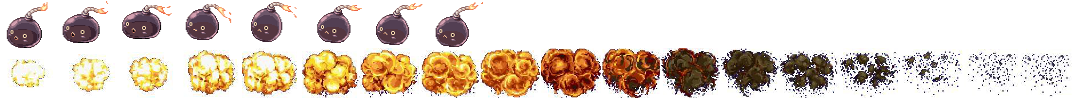
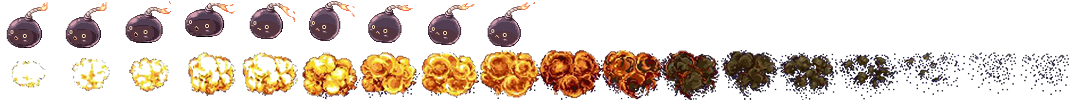
Add hud and clean sprites

diff --git a/Kaboom/Sources/MainGame.cs b/Kaboom/Sources/MainGame.cs
@@ -19,6 +19,7 @@ namespace Kaboom.Sources
         private DisplayOrientation oldOrientation_;
         private readonly List<Player> players_;
         private readonly Gameplay gameplay_;
+        private Hud hud_;
 
         /// <summary>
         /// Create the game instance
@@ -52,6 +53,7 @@ namespace Kaboom.Sources
             KaboomResources.Textures["background2"] = Content.Load<Texture2D>("background2");
             KaboomResources.Textures["background3"] = Content.Load<Texture2D>("background3");
             KaboomResources.Textures["BombSheet"] = Content.Load<Texture2D>("BombSheet");
+            KaboomResources.Textures["hud"] = Content.Load<Texture2D>("hud");
             KaboomResources.Fonts["default"] = Content.Load<SpriteFont>("defaultFont");
         }
 
@@ -70,6 +72,9 @@ namespace Kaboom.Sources
             this.widthRef_ = GraphicsDevice.Viewport.Width;
             this.map_ = new Map(this, this.spriteBatch_, this.width_, this.height_);
             this.Components.Add(this.map_);
+            this.hud_ = new Hud(this, this.spriteBatch_);
+            this.Components.Add(this.hud_);
+
             this.oldOrientation_ = this.Window.CurrentOrientation;
 
             if (this.Window.CurrentOrientation == DisplayOrientation.Portrait)
@@ -162,22 +167,29 @@ namespace Kaboom.Sources
                             var where = this.map_.GetCoordByPos(ret.Pos);
                             Camera.Instance.OffX = -1 * (where.X * 80) + GraphicsDevice.Viewport.Width / 2;
                             if (this.Window.CurrentOrientation == DisplayOrientation.Portrait)
-                                Camera.Instance.OffY = -1 * (where.Y * 80) + (int)(0.1 * GraphicsDevice.Viewport.Width) + GraphicsDevice.Viewport.Height / 2;
+                                Camera.Instance.OffY = -1 * (where.Y * 80) + (int) (0.1 * GraphicsDevice.Viewport.Width) +
+                                                       GraphicsDevice.Viewport.Height / 2;
                             else
-                                Camera.Instance.OffY = -1 * (where.Y * 80) + (int)(0.1 * GraphicsDevice.Viewport.Height) + GraphicsDevice.Viewport.Height / 2;
+                                Camera.Instance.OffY = -1 * (where.Y * 80) +
+                                                       (int) (0.1 * GraphicsDevice.Viewport.Height) +
+                                                       GraphicsDevice.Viewport.Height / 2;
 
                         }
                         catch (Exception)
                         {
                             Camera.Instance.OffX = -1 * ((this.width_ * 80) / 2) + GraphicsDevice.Viewport.Width / 2;
                             if (this.Window.CurrentOrientation == DisplayOrientation.Portrait)
-                                Camera.Instance.OffY = -1 * ((this.height_ * 80) /2) + (int)(0.1 * GraphicsDevice.Viewport.Width) + GraphicsDevice.Viewport.Height / 2;
+                                Camera.Instance.OffY = -1 * ((this.height_ * 80) / 2) +
+                                                       (int) (0.1 * GraphicsDevice.Viewport.Width) +
+                                                       GraphicsDevice.Viewport.Height / 2;
                             else
-                                Camera.Instance.OffY = -1 * ((this.height_ * 80) /2) + (int)(0.1 * GraphicsDevice.Viewport.Height) + GraphicsDevice.Viewport.Height / 2;
+                                Camera.Instance.OffY = -1 * ((this.height_ * 80) / 2) +
+                                                       (int) (0.1 * GraphicsDevice.Viewport.Height) +
+                                                       GraphicsDevice.Viewport.Height / 2;
                         }
                         Camera.Instance.DimX = 80;
                         Camera.Instance.DimY = 80;
-                        
+
                         break;
                     case Action.Type.ZoomOut:
                         if (this.Window.CurrentOrientation == DisplayOrientation.Portrait)
@@ -186,9 +198,9 @@ namespace Kaboom.Sources
                             Camera.Instance.DimX = maxZoom_[1];
                             Camera.Instance.OffX = (GraphicsDevice.Viewport.Width - (maxZoom_[1] * this.width_)) / 2;
                             Camera.Instance.OffY = (GraphicsDevice.Viewport.Height -
-                                                    (int)(0.1 * GraphicsDevice.Viewport.Width) -
+                                                    (int) (0.1 * GraphicsDevice.Viewport.Width) -
                                                     (maxZoom_[1] * this.height_)) / 2 +
-                                                   (int)(0.1 * GraphicsDevice.Viewport.Width);
+                                                   (int) (0.1 * GraphicsDevice.Viewport.Width);
                         }
                         else
                         {
@@ -202,53 +214,64 @@ namespace Kaboom.Sources
                         }
                         break;
                     case Action.Type.Tap:
-                      
-                        foreach (var player in this.players_)
+                        var hudEvent = this.hud_.GetHudEvent(ret.Pos);
+                        if (hudEvent != Hud.eHudAction.NoAction)
                         {
-                            if (player.TurnToPlay)
+                            if (hudEvent == Hud.eHudAction.Detonator)
                             {
-                                try
-                                {
-                                    if (player.Name == "Player 1")
-                                    {
-                                        var coord = this.map_.GetCoordByPos(ret.Pos);
-                                        var entity = new Bomb(Pattern.Type.Square, this.map_.GetMaxZIndexOnCoord(coord) + 1,
-                                                                                                 new SpriteSheet(
-                                                                                                 KaboomResources.Textures["BombSheet"],
-                                                                                                  new[] { 8, 18 }, 2));
-                                        //var entity = new StaticEntity(this.map_.GetMaxZIndexOnCoord(coord) + 1,
-                                        //                               new SpriteSheet(
-                                        //                                   KaboomResources.Textures["background2"],
-                                        //                                   new[] {1}), EVisibility.Transparent);
-                                        this.gameplay_.OnNewEntity(entity);
-                                        this.map_.AddNewEntity(entity, coord);
-                                        player.TurnToPlay = false;
-                                    }
-                                    else
-                                    {
-                                        var coord = this.map_.GetCoordByPos(ret.Pos);
-                                        var entity = new Bomb(Pattern.Type.Square, this.map_.GetMaxZIndexOnCoord(coord) + 1,
-                                                                                                new SpriteSheet(
-                                                                                                KaboomResources.Textures["BombSheet"],
-                                                                                                 new[] { 8, 18 }, 2));
-                                        //var entity = new StaticEntity(this.map_.GetMaxZIndexOnCoord(coord) + 1,
-                                        //                               new SpriteSheet(
-                                        //                                   KaboomResources.Textures["background3"],
-                                        //                                   new[] {1}), EVisibility.Transparent);
-                                        //this.gameplay_.OnNewEntity(entity);
-                                        this.map_.AddNewEntity(entity, coord);
-                                        player.TurnToPlay = false;
-                                    }
-                                }
-                                catch
-                                {
-                                    player.TurnToPlay = false;
-                                    this.map_.SetExplosion(new Point(0, 0));
-                                }
+                                this.map_.SetExplosion(new Point(0, 0));
                             }
-                            else
+                        }
+                        else
+                        {
+                            foreach (var player in this.players_)
                             {
-                                player.TurnToPlay = true;
+                                if (player.TurnToPlay)
+                                {
+                                    try
+                                    {
+                                        if (player.Name == "Player 1")
+                                        {
+                                            var coord = this.map_.GetCoordByPos(ret.Pos);
+                                            var entity = new Bomb(Pattern.Type.Square,
+                                                                  this.map_.GetMaxZIndexOnCoord(coord) + 1,
+                                                                  new SpriteSheet(
+                                                                      KaboomResources.Textures["BombSheet"],
+                                                                      new[] {8, 18}, 2));
+                                            //var entity = new StaticEntity(this.map_.GetMaxZIndexOnCoord(coord) + 1,
+                                            //                               new SpriteSheet(
+                                            //                                   KaboomResources.Textures["background2"],
+                                            //                                   new[] {1}), EVisibility.Transparent);
+                                            this.gameplay_.OnNewEntity(entity);
+                                            this.map_.AddNewEntity(entity, coord);
+                                            player.TurnToPlay = false;
+                                        }
+                                        else
+                                        {
+                                            var coord = this.map_.GetCoordByPos(ret.Pos);
+                                            var entity = new Bomb(Pattern.Type.Square,
+                                                                  this.map_.GetMaxZIndexOnCoord(coord) + 1,
+                                                                  new SpriteSheet(
+                                                                      KaboomResources.Textures["BombSheet"],
+                                                                      new[] {9, 18}, 2));
+                                            //var entity = new StaticEntity(this.map_.GetMaxZIndexOnCoord(coord) + 1,
+                                            //                               new SpriteSheet(
+                                            //                                   KaboomResources.Textures["background3"],
+                                            //                                   new[] {1}), EVisibility.Transparent);
+                                            //this.gameplay_.OnNewEntity(entity);
+                                            this.map_.AddNewEntity(entity, coord);
+                                            player.TurnToPlay = false;
+                                        }
+                                    }
+                                    catch
+                                    {
+                                        player.TurnToPlay = false;
+                                    }
+                                }
+                                else
+                                {
+                                    player.TurnToPlay = true;
+                                }
                             }
                         }
                         break;
@@ -269,12 +292,9 @@ namespace Kaboom.Sources
         /// <param name="gameTime">Game clock</param>
         protected override void Draw(GameTime gameTime)
         {
-            GraphicsDevice.Clear(Color.AliceBlue);
+            GraphicsDevice.Clear(Color.Black);
 
             base.Draw(gameTime);
-            this.spriteBatch_.Begin(SpriteSortMode.BackToFront, BlendState.AlphaBlend);
-            this.spriteBatch_.DrawString(KaboomResources.Fonts["default"], "Kaboom: Ce soir dans ton salon", Vector2.Zero, Color.White);
-            this.spriteBatch_.End();
         }
     }
 }

diff --git a/Kaboom/Sources/Hud.cs b/Kaboom/Sources/Hud.cs
@@ -1,0 +1,100 @@
+using Microsoft.Xna.Framework;
+using Microsoft.Xna.Framework.Graphics;
+
+namespace Kaboom.Sources
+{
+    class Hud : DrawableGameComponent
+    {
+        public enum eHudAction
+        {
+            Bomb1,
+            Bomb2,
+            Bomb3,
+            Bomb4,
+            Bomb5,
+            SelectedBomb,
+            Detonator,
+            NoAction
+        }
+
+        private readonly SpriteBatch sb_;
+        private int width_;
+        private int height_;
+
+        /// <summary>
+        /// Constructor
+        /// </summary>
+        /// <param name="game">Main game parameter</param>
+        /// <param name="sb">Main spriteBatch to display hud elements</param>
+        public Hud(Game game, SpriteBatch sb)
+            : base(game)
+        {
+            sb_ = sb;
+            height_ = 0;
+            width_ = 0;
+        }
+
+        /// <summary>
+        /// Initialize hud elelment
+        /// </summary>
+        public override void Initialize()
+        {
+            base.Initialize();
+            if (this.Game.Window.CurrentOrientation == DisplayOrientation.Portrait)
+                this.height_ = (int)(this.Game.GraphicsDevice.Viewport.Width * 0.15);
+            else
+                this.height_ = (int)(this.Game.GraphicsDevice.Viewport.Height * 0.15);
+
+            this.width_ = (int)(780.0 / 125.0 * this.height_);
+        }
+
+        /// <summary>
+        /// Display the hud
+        /// </summary>
+        /// <param name="gameTime"></param>
+        public override void Draw(GameTime gameTime)
+        {
+            base.Draw(gameTime);
+            this.sb_.Begin();
+            this.sb_.Draw(KaboomResources.Textures["hud"],
+                          new Rectangle((this.Game.GraphicsDevice.Viewport.Width / 2) - (this.width_ / 2), 0,
+                                        this.width_, this.height_),
+                          new Rectangle(0, 0, 780, 125), Color.White);
+            this.sb_.End();
+        }
+
+        /// <summary>
+        /// Detect if the corrent tapped position is on a hud element or not
+        /// </summary>
+        /// <param name="pos">Position of the current tap</param>
+        /// <returns></returns>
+        public eHudAction GetHudEvent(Vector2 pos)
+        {
+            var detonator =
+                new Rectangle(
+                    ((this.Game.GraphicsDevice.Viewport.Width / 2) - (this.width_ / 2)) +
+                    (int)((652.0 / 780.0) * this.width_), 0, (int)((128.0 / 780.0) * this.width_), this.height_);
+            if (detonator.Contains(new Point((int)pos.X, (int)pos.Y)))
+                return eHudAction.Detonator;
+            var padding = 4;
+            for (var i = 0; i < 5; ++i, padding += 57)
+            {
+                var bomb =
+                    new Rectangle(
+                        ((this.Game.GraphicsDevice.Viewport.Width / 2) - (this.width_ / 2)) +
+                        (int)(((padding) / 780.0) * this.width_), 0, (int)((61.0 / 780.0) * this.width_),
+                        (int)((81.0 / 125.0) * this.height_));
+                if (bomb.Contains(new Point((int)pos.X, (int)pos.Y)))
+                    return (eHudAction)(i);
+            }
+            var selectedBomb =
+                new Rectangle(
+                    ((this.Game.GraphicsDevice.Viewport.Width / 2) - (this.width_ / 2)) +
+                    (int)((296.0 / 780.0) * this.width_), 0, (int)((109.0 / 780.0) * this.width_),
+                    (int)((119.0 / 125.0) * this.height_));
+            if (selectedBomb.Contains(new Point((int)pos.X, (int)pos.Y)))
+                return eHudAction.SelectedBomb;
+            return eHudAction.NoAction;
+        }
+    }
+}

diff --git a/Kaboom/Resources/Resource.Designer.cs b/Kaboom/Resources/Resource.Designer.cs
@@ -1,29 +1,19 @@
-#pragma warning disable 1591
 //------------------------------------------------------------------------------
 // <auto-generated>
 //     This code was generated by a tool.
-//     Runtime Version:4.0.30319.17929
-//     Ce code a été généré par un outil.
-//     Version du runtime :4.0.30319.17929
+//     Runtime Version:4.0.30319.18010
 //
-//     Les modifications apportées à ce fichier peuvent provoquer un comportement incorrect et seront perdues si
-//     le code est régénéré.
+//     Changes to this file may cause incorrect behavior and will be lost if
+//     the code is regenerated.
 // </auto-generated>
 //------------------------------------------------------------------------------
-
-[assembly: Android.Runtime.ResourceDesignerAttribute("Kaboom.Resource", IsApplication=true)]
 
 namespace Kaboom
 {
 	
 	
-	[System.CodeDom.Compiler.GeneratedCodeAttribute("Novell.MonoDroid.Build.Tasks", "1.0.0.0")]
 	public partial class Resource
 	{
-		
-		public static void UpdateIdValues()
-		{
-		}
 		
 		public partial class Attribute
 		{
@@ -81,4 +71,3 @@ namespace Kaboom
 		}
 	}
 }
-#pragma warning restore 1591
